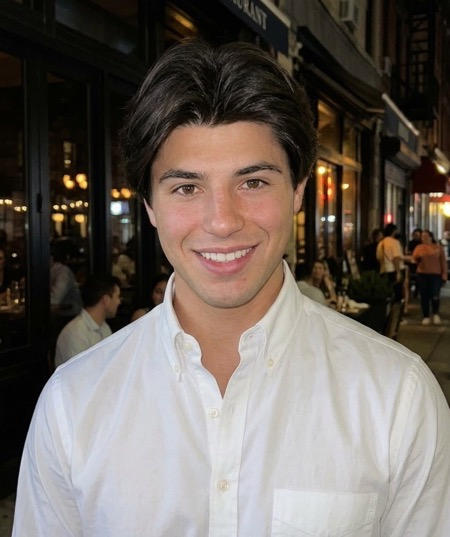
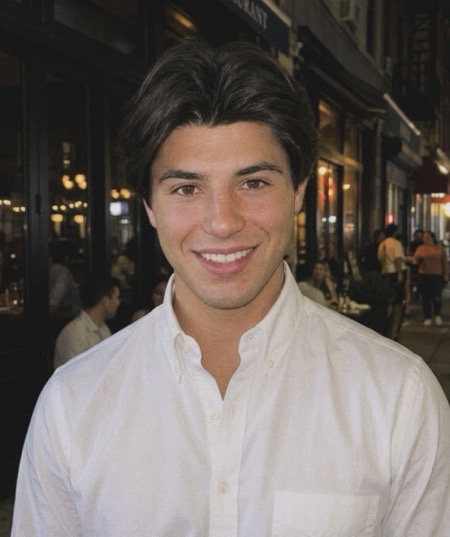
Fix homepage portrait to use correct source photo

diff --git a/index.html b/index.html
@@ -71,7 +71,7 @@
 
   <main class="home-main">
     <div class="home-cover">
-      <img class="home-portrait" src="/portrait.jpg?v=7" alt="Chase Roll" width="450" height="537" fetchpriority="high" />
+      <img class="home-portrait" src="/portrait.jpg?v=8" alt="Chase Roll" width="450" height="537" fetchpriority="high" />
       <div class="home-cover-text">
       <div class="home-name-row">
         <h1 class="home-name">Chase Roll</h1>
